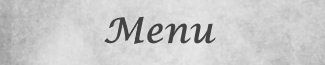
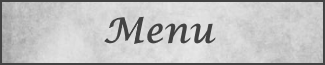
Kleuren en images toegevoegd, error in button class verwijderd

Changed region(s): [[0.0, 0.0, 1.0, 1.0]]

diff --git a/Gamestates/playerpicker.js b/Gamestates/playerpicker.js
@@ -1,6 +1,6 @@
 function Playerpicker() {
-    background(255)
-    fill(0, 255);
+    image(BLANKBACKGROUND, 0, 0, WIDTH, HEIGHT);
+    fill(89, 255);
     textAlign(CENTER, CENTER);
     textSize(50);
     text("Playerpicker", 500, 90);
@@ -35,7 +35,7 @@ function Playerpicker() {
   if(keuze == 1 && beurt == 1){
     fill(0,100);
     rect(40,200,200,200);
-    fill(0,255);
+    fill(89,255);
     textAlign(LEFT);
     text("Player 1 picked 1",40,500);
     player1.skin = PLAYERIMG1;
@@ -45,7 +45,7 @@ function Playerpicker() {
   if(keuze == 2 && beurt == 1){
     fill(0,100)
     rect(280,200,200,200)
-    fill(0, 255)
+    fill(89, 255)
     textAlign(LEFT);
     text("Player 1 picked 2",40,500);
     player1.skin = PLAYERIMG2;
@@ -55,7 +55,7 @@ function Playerpicker() {
   if(keuze == 3 && beurt == 1){
     fill(0,100)
     rect(520,200,200,200)
-    fill(0, 255)
+    fill(89, 255)
     textAlign(LEFT);
     text("Player 1 picked 3",40,500);
     player1.skin = PLAYERIMG3;
@@ -65,7 +65,7 @@ function Playerpicker() {
   if(keuze == 4 && beurt == 1){
     fill(0,100)
     rect(760,200,200,200)
-    fill(0, 255)
+    fill(89, 255)
     textAlign(LEFT);
     text("Player 1 picked 4",40,500);
     player1.skin = PLAYERIMG4;
@@ -75,7 +75,7 @@ function Playerpicker() {
   if(keuze == 1 && beurt == 2){
     fill(0,100);
     rect(40,200,200,200);
-    fill(0, 255);
+    fill(89, 255);
     textAlign(LEFT);
     text("Player 2 picked 1",40,550);
     player2.skin = PLAYERIMG1;
@@ -85,7 +85,7 @@ function Playerpicker() {
   if(keuze == 2 && beurt == 2){
     fill(0,100)
     rect(280,200,200,200)
-    fill(0, 255)
+    fill(89, 255)
     textAlign(LEFT);
     text("Player 2 picked 2",40,550);
     player2.skin = PLAYERIMG2;
@@ -95,7 +95,7 @@ function Playerpicker() {
   if(keuze == 3 && beurt == 2){
     fill(0,100)
     rect(520,200,200,200)
-    fill(0, 255)
+    fill(89, 255)
     textAlign(LEFT);
     text("Player 2 picked 3",40,550);
     player2.skin = PLAYERIMG3;
@@ -105,7 +105,7 @@ function Playerpicker() {
   if(keuze == 4 && beurt == 2){
     fill(0,100)
     rect(760,200,200,200)
-    fill(0, 255)
+    fill(89, 255)
     textAlign(LEFT);
     text("Player 2 picked 4",40,550);
     player2.skin = PLAYERIMG4;

diff --git a/setup.js b/setup.js
@@ -2,6 +2,7 @@
 function preload() {
   GAMEBACKGROUND = loadImage('Images/BasketballField.png');
   MENUBACKGROUND = loadImage('Images/MENUBACKGROUND.jpg');
+  BLANKBACKGROUND = loadImage('Images/blankbackground.png');
   PLAYERIMG1 = loadImage('Images/players/PLAYERIMG1.png');
   PLAYERIMG2 = loadImage('Images/players/PLAYERIMG2.png');
   PLAYERIMG3 = loadImage('Images/players/PLAYERIMG3.png');
@@ -38,8 +39,8 @@ function setup() {
    }
   
 //---------------------------------//
-  settings = new Button(345, 500, 325, 60, settingsbutton, function() {gamestate = 4});
-  playerpicker = new Button(345, 300, 325, 60, playerpickerbutton, function() {gamestate = 1;
+  settings = new Button(((WIDTH/2)-(325/2)), 500, 325, 60, settingsbutton, function() {gamestate = 4});
+  playerpicker = new Button(((WIDTH/2)-(325/2)), 300, 325, 60, playerpickerbutton, function() {gamestate = 1;
  backgroundmenumusic.stop();
   
   for (let i = 0; i < NUMBALLS; i++) {
@@ -50,11 +51,11 @@ function setup() {
   countedP1 = false;
   countedP2 = false;                                                          
   });
-  controls = new Button(345, 400, 325, 60, controlsbutton, function() {gamestate = 0.5});
+  controls = new Button(((WIDTH/2)-(325/2)), 400, 325, 60, controlsbutton, function() {gamestate = 0.5});
   back = new Button(900, 50, 50, 50, backbutton, function() { gamestate = 0});
-  pause = new Button((WIDTH)/2 -25,50,50,50,pausebutton, function() { gamestate = 6});
-  Continue = new Button(345, 215, 325, 65, continuebutton, function() {gamestate = 2});
-  Menu  = new Button(345, 300, 325, 65, menubutton, function() {gamestate = 0});
+  pause = new Button(((WIDTH/2)-(50/2)),50,50,50,pausebutton, function() { gamestate = 6});
+  Continue = new Button(((WIDTH/2)-(325/2)), 215, 325, 65, continuebutton, function() {gamestate = 2});
+  Menu  = new Button(((WIDTH/2)-(325/2)), 300, 325, 65, menubutton, function() {gamestate = 0});
   apply = new Button(850, 500, 100, 40, applybutton, function() {beurt = beurt + 1; keuze = 0;});
   
 

diff --git a/Gamestates/settings.js b/Gamestates/settings.js
@@ -1,7 +1,7 @@
 function Settings() {
-background(255);
+image(BLANKBACKGROUND, 0, 0, WIDTH, HEIGHT);
   
-fill(0,255);
+fill(89,255);
 textAlign(CENTER, CENTER);
 textSize(100);
 text("Settings",500,90);

diff --git a/buttons.js b/buttons.js
@@ -8,6 +8,7 @@ class Button {
     this.action = action;
   }
   drawButton() {
+    imageMode(CORNER);
     image(this.image, this.x, this.y, this.w, this.h);
   }
   clicked() {

diff --git a/mouseclicked.js b/mouseclicked.js
@@ -28,4 +28,5 @@ function mouseClicked() {
   }
   storeItem('valSound', valSound);
   storeItem('valMusic', valMusic);
+  console.log(mouseX,mouseY);
 }
